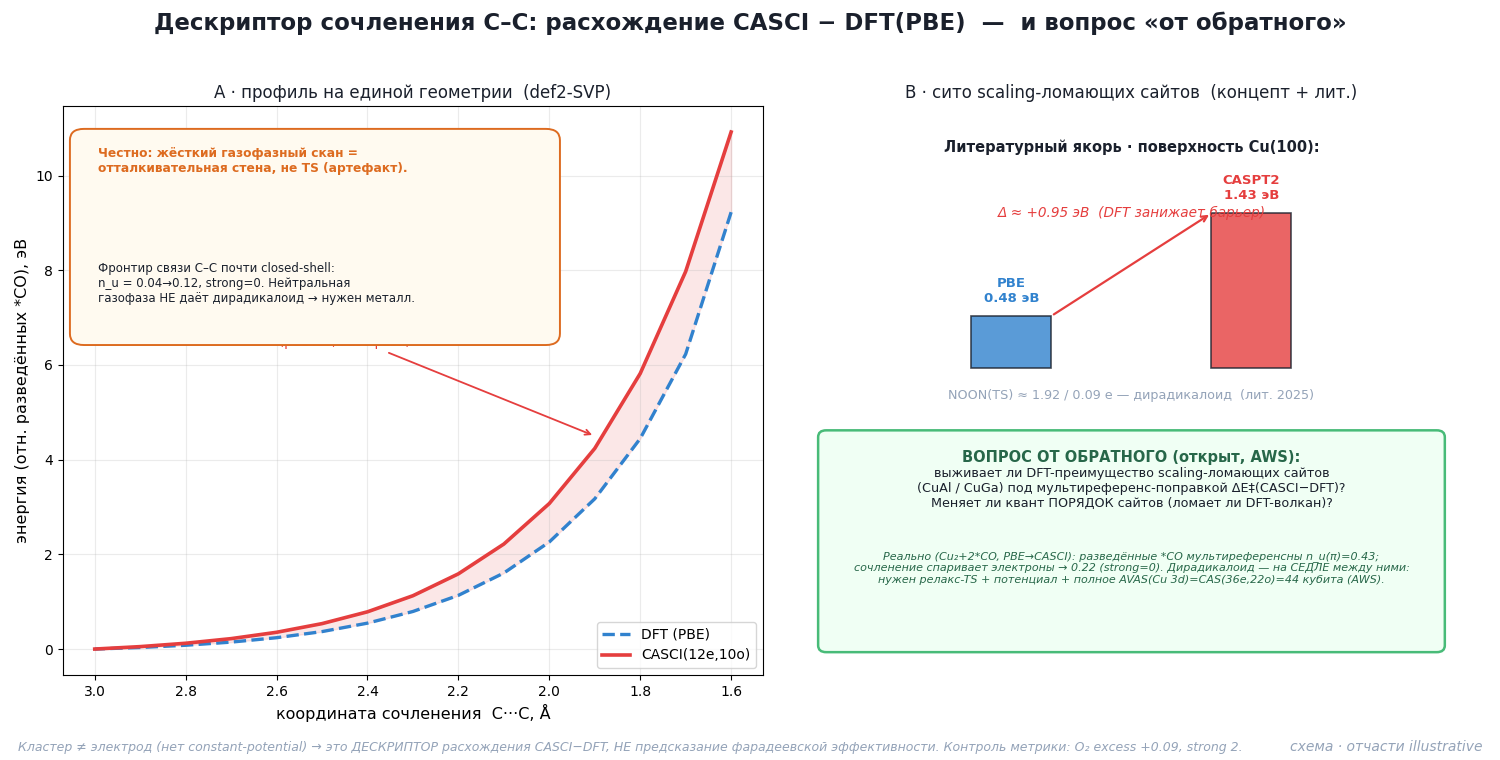
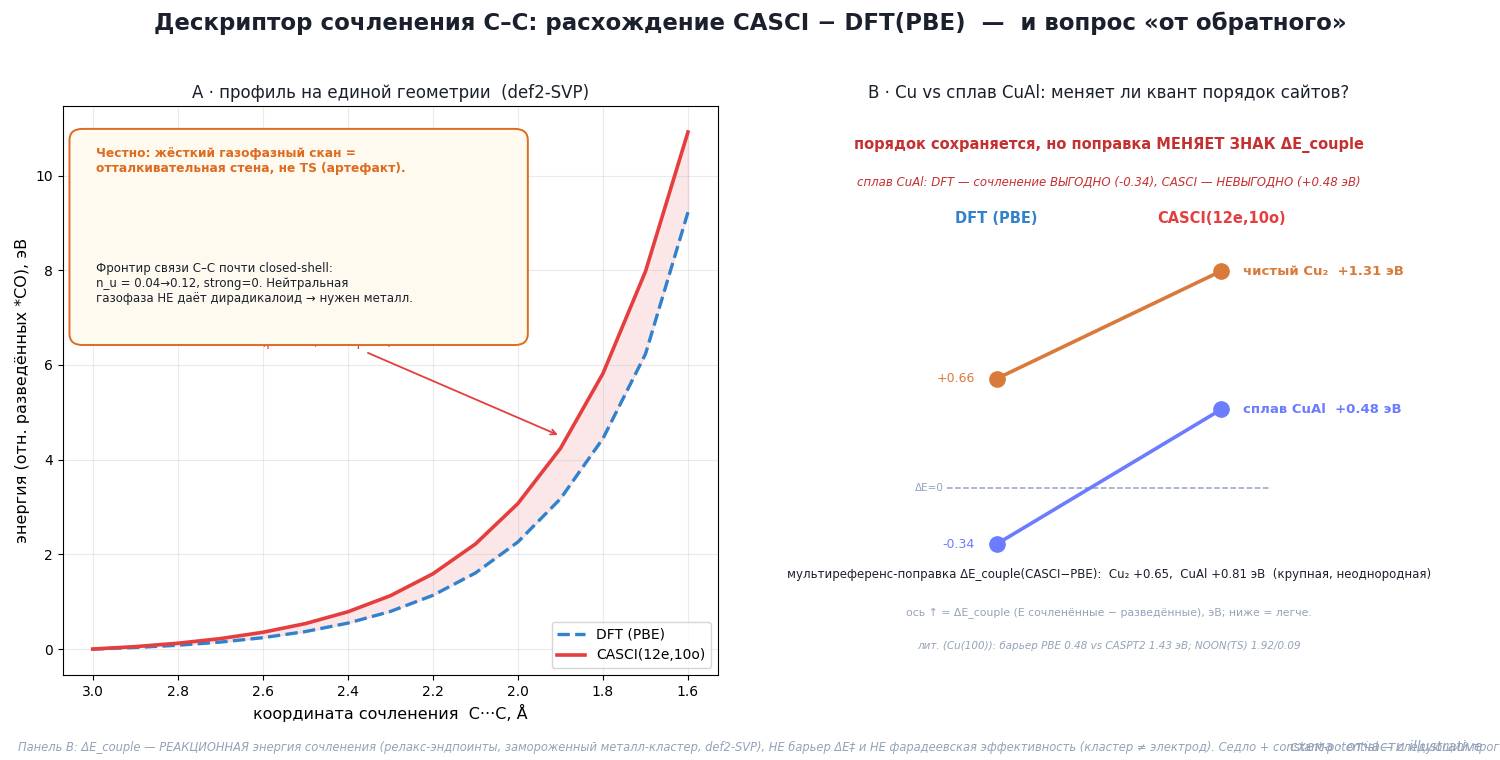
feat: co2-to-fuels tab — Cu vs CuAl sites, multireference reorder test
Inverse-design question answered on two real sites (clean Cu2 vs alloy CuAl).
Relaxed *CO–*CO coupling endpoints (RI-PBE/def2-SVP, frozen-metal cluster,
analytical gradients) + CASCI(12e,10o) at each → coupling energy ΔE_couple:

  Cu2 : PBE +0.66 → CASCI +1.31 eV   (correction +0.65)
  CuAl: PBE -0.34 → CASCI +0.48 eV   (correction +0.81)

Verdict: the multireference correction does NOT flip the site order (CuAl stays
the easier coupler — DFT's alloy ranking survives), but it is large (0.6-0.8 eV,
same order as the literature ~0.95 eV surface underestimate) and non-uniform, and
it FLIPS THE SIGN for CuAl (DFT: coupling favorable -0.34 → CASCI: unfavorable
+0.48). DFT's qualitative alloy advantage is overturned even though the rank holds.

Honest scope: ΔE_couple is a coupling reaction energy at relaxed endpoints, NOT a
barrier and NOT Faradaic efficiency (cluster != electrode). Relaxed saddle (TS) +
constant-potential remain the AWS run. Descriptor Panel B = PBE→CASCI slope chart;
stage_progress Quantum-correction 0.05→0.25; new dated diary entry.

https://claude.ai/code/session_01KLucHgHKbMAqtPyNP7d3L9

diff --git a/routes/co2_to_fuels.py b/routes/co2_to_fuels.py
@@ -213,12 +213,25 @@ def fig_descriptor(res):
         def Y(v): return 2.3 + 4.8 * (v - lo) / span
         xL, xR = 3.2, 6.8
         flipped = sites.get("_summary", {}).get("order_flipped", False)
-        verdict = ("КВАНТ МЕНЯЕТ порядок сайтов — DFT-волкан ломается"
-                   if flipped else "порядок сайтов сохраняется")
-        axB.text(5.0, 9.05, verdict, ha="center", fontsize=11,
-                 color=("#c53030" if flipped else "#276749"), fontweight="bold")
-        axB.text(xL, 7.9, "DFT (PBE)", ha="center", fontsize=10.5, color="#3182ce", fontweight="bold")
-        axB.text(xR, 7.9, "CASCI(12e,10o)", ha="center", fontsize=10.5, color=RED, fontweight="bold")
+        sign_flip = [t for t in ("Cu2", "CuAl") if dp[t] < 0 <= dc[t]]
+        if flipped:
+            verdict, vc = "КВАНТ МЕНЯЕТ порядок сайтов — DFT-волкан ломается", "#c53030"
+        elif sign_flip:
+            verdict, vc = "порядок сохраняется, но поправка МЕНЯЕТ ЗНАК ΔE_couple", "#c53030"
+        else:
+            verdict, vc = "порядок сайтов сохраняется", "#276749"
+        axB.text(5.0, 9.25, verdict, ha="center", fontsize=10.5, color=vc, fontweight="bold")
+        if sign_flip:
+            t = sign_flip[0]
+            axB.text(5.0, 8.6, f"{labels[t]}: DFT — сочленение ВЫГОДНО ({dp[t]:+.2f}), "
+                     f"CASCI — НЕВЫГОДНО ({dc[t]:+.2f} эВ)", ha="center",
+                     fontsize=8.5, color=vc, style="italic")
+        axB.text(xL, 7.95, "DFT (PBE)", ha="center", fontsize=10.5, color="#3182ce", fontweight="bold")
+        axB.text(xR, 7.95, "CASCI(12e,10o)", ha="center", fontsize=10.5, color=RED, fontweight="bold")
+        y0 = Y(0.0)                                     # выгодно/невыгодно boundary
+        if 2.0 < y0 < 7.6:
+            axB.plot([xL - 0.8, xR + 0.8], [y0, y0], "--", color=GREY, lw=1.1, zorder=2)
+            axB.text(xL - 0.85, y0, "ΔE=0", ha="right", va="center", fontsize=7.5, color=GREY)
         for t in ("Cu2", "CuAl"):
             axB.plot([xL, xR], [Y(dp[t]), Y(dc[t])], "-o", color=colors[t], lw=2.6, ms=11, zorder=4)
             axB.text(xL - 0.35, Y(dp[t]), f"{dp[t]:+.2f}", ha="right", va="center",
@@ -226,21 +239,18 @@ def fig_descriptor(res):
             axB.text(xR + 0.35, Y(dc[t]), f"{labels[t]}  {dc[t]:+.2f} эВ", ha="left",
                      va="center", fontsize=9.5, color=colors[t], fontweight="bold")
         dcorr = {t: sites[t].get("quantum_corr_eV") for t in ("Cu2", "CuAl")}
-        axB.text(5.0, 1.55,
-                 f"мультиреференс-поправка ΔE_couple(CASCI−PBE):  Cu₂ {dcorr['Cu2']:+.2f} эВ,  "
-                 f"CuAl {dcorr['CuAl']:+.2f} эВ",
-                 ha="center", fontsize=9, color=INK)
-        axB.text(5.0, 0.95,
-                 "ось ↑ = ΔE_couple (E сочленённые − разведённые); ниже = легче сочленение.",
-                 ha="center", fontsize=8, color=GREY)
+        axB.text(5.0, 1.7,
+                 f"мультиреференс-поправка ΔE_couple(CASCI−PBE):  Cu₂ {dcorr['Cu2']:+.2f},  "
+                 f"CuAl {dcorr['CuAl']:+.2f} эВ  (крупная, неоднородная)",
+                 ha="center", fontsize=8.5, color=INK)
+        axB.text(5.0, 1.05, "ось ↑ = ΔE_couple (E сочленённые − разведённые), эВ; ниже = легче.",
+                 ha="center", fontsize=7.8, color=GREY)
+        axB.text(5.0, 0.45, "лит. (Cu(100)): барьер PBE 0.48 vs CASPT2 1.43 эВ; NOON(TS) 1.92/0.09",
+                 ha="center", fontsize=7.5, color=GREY, style="italic")
     else:
         axB.text(5.0, 5.0, "ВОПРОС ОТ ОБРАТНОГО (расчёт идёт):\n"
                  "меняет ли ΔE‡(CASCI−DFT) порядок Cu vs CuAl?", ha="center",
                  fontsize=10, color="#276749", fontweight="bold")
-    # compact literature anchor reference
-    axB.text(5.0, 3.7, "лит. якорь (поверхность Cu(100)): барьер PBE 0.48 vs CASPT2 1.43 эВ; "
-             "NOON(TS) 1.92/0.09 — дирадикалоид (2025)", ha="center", fontsize=8,
-             color=GREY, style="italic")
 
     # footer
     fig.text(0.012, 0.012,
